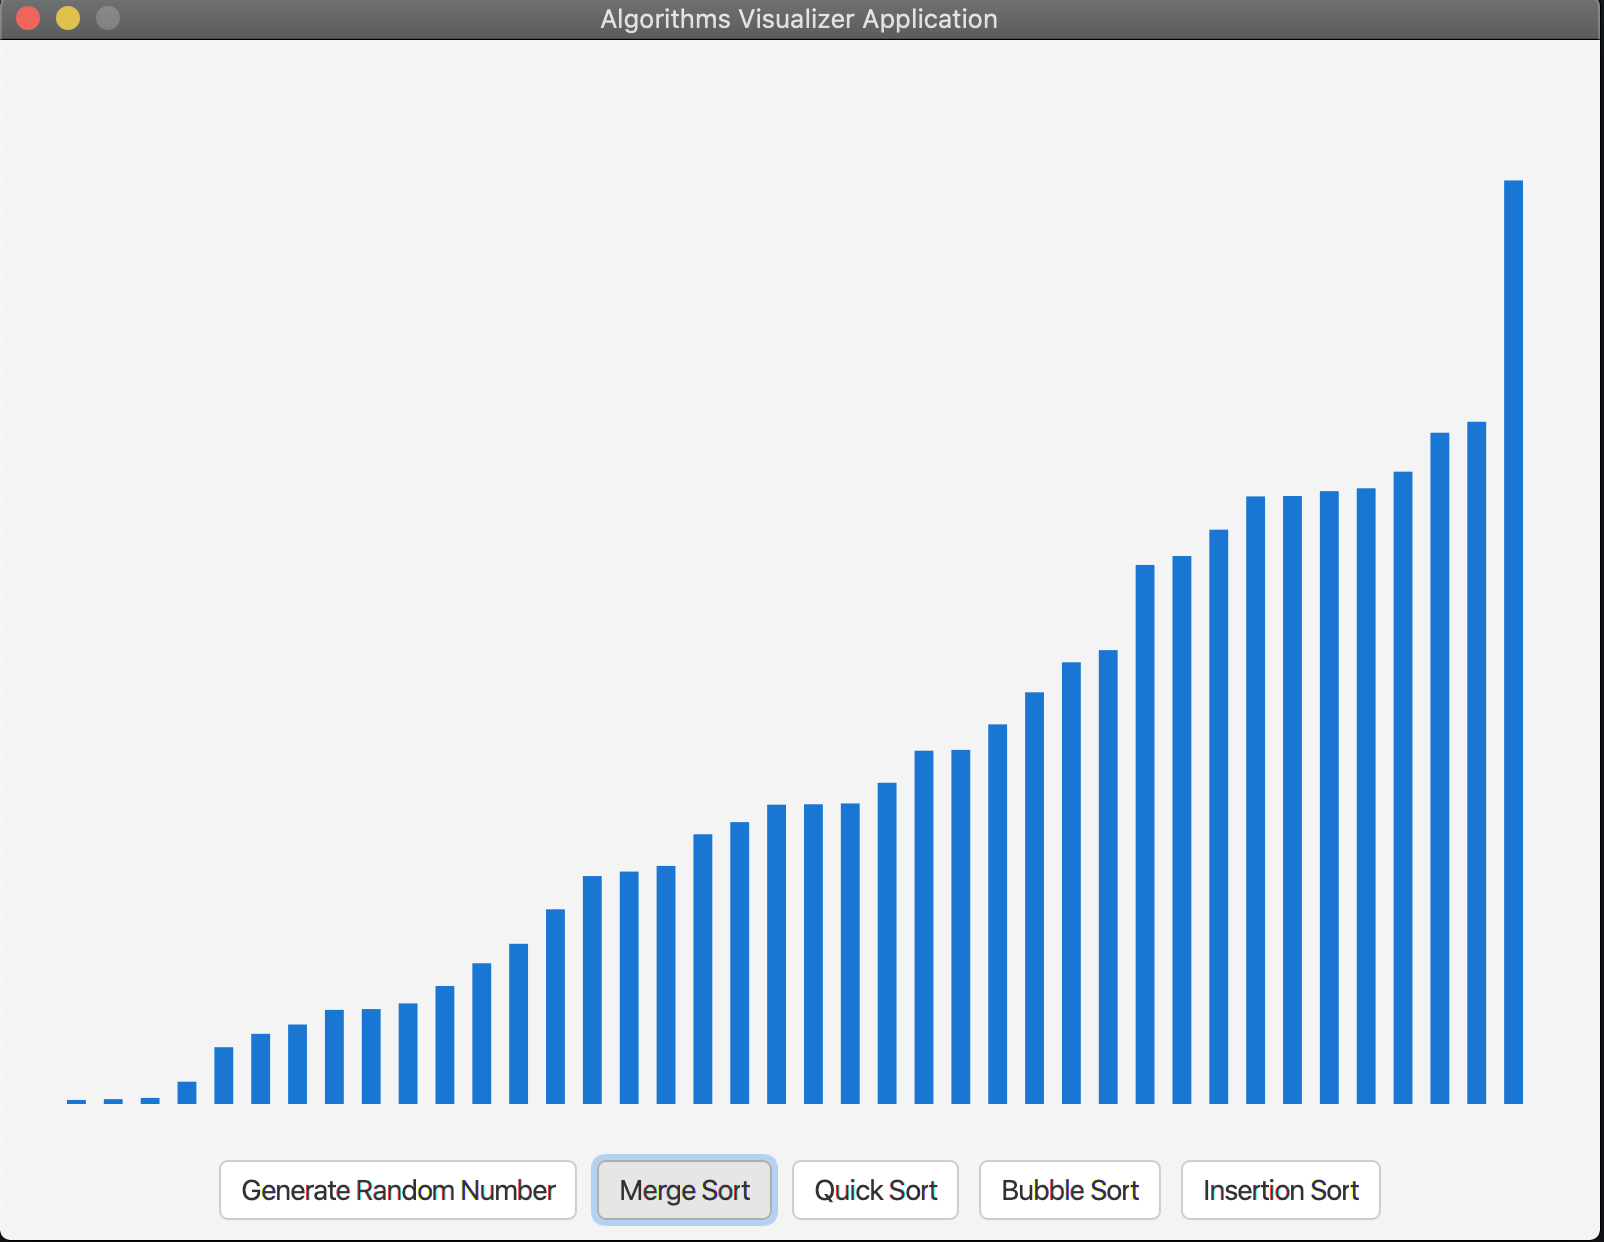
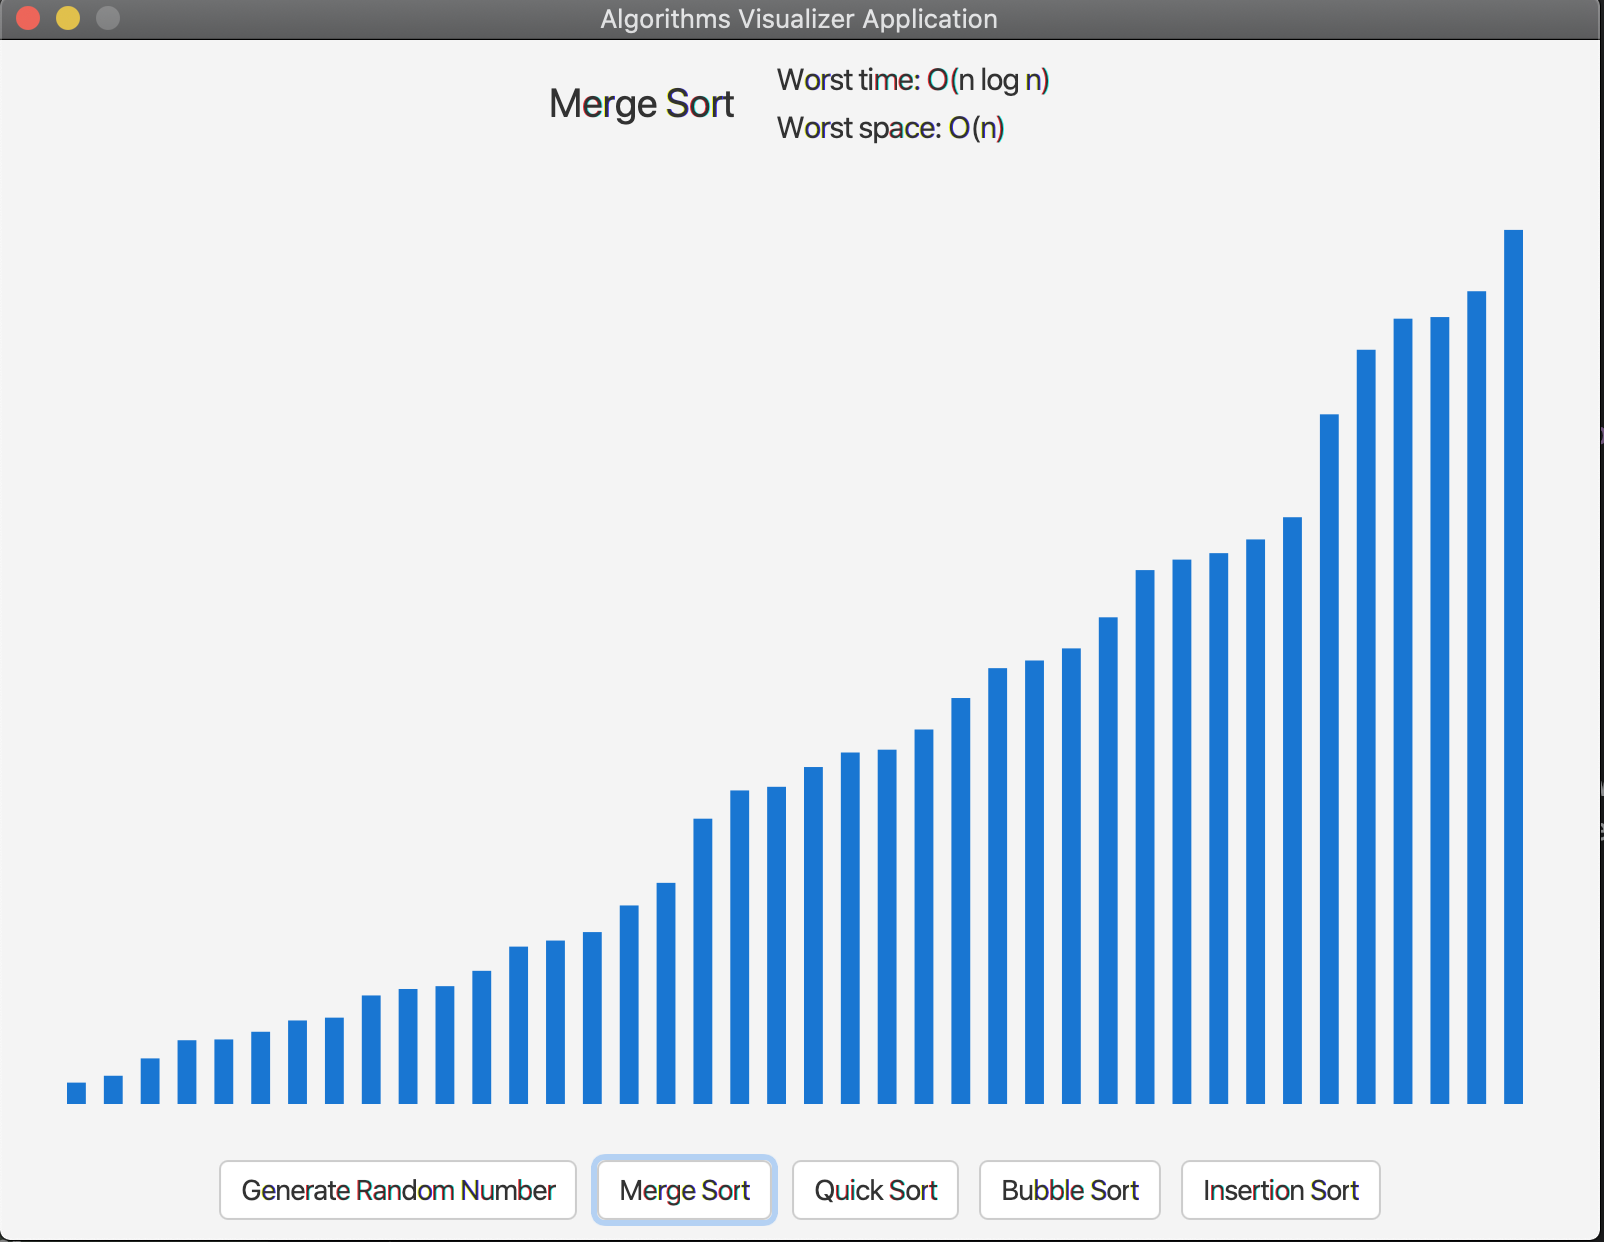
Some UI modifications

diff --git a/src/main/java/com/mghimire/algorithmsvisualizer/ui/layout/AppLayout.java b/src/main/java/com/mghimire/algorithmsvisualizer/ui/layout/AppLayout.java
@@ -2,6 +2,7 @@ package com.mghimire.algorithmsvisualizer.ui.layout;
 
 import com.mghimire.algorithmsvisualizer.sortingalgorithms.MergeSort;
 import com.mghimire.algorithmsvisualizer.ui.model.ChartModel;
+import com.mghimire.algorithmsvisualizer.ui.model.TitleProperty;
 import com.mghimire.algorithmsvisualizer.util.RandomNumberUtil;
 import javafx.collections.ObservableList;
 import javafx.event.ActionEvent;
@@ -17,12 +18,15 @@ public class AppLayout extends VBox implements SortingAlgorithmHandler {
   private static final int NUM_BARS = 40;
   private static final int BAR_GAP = 1;
 
+  private final AppTitleLayout appTitleLayout;
   private final VisualizerLayout visualizerLayout;
   private final ControlButtonLayout controlButtonLayout;
   private final ChartModel chartModel;
 
   public AppLayout() {
     chartModel = new ChartModel();
+
+    appTitleLayout = new AppTitleLayout();
 
     visualizerLayout = new VisualizerLayout(
       chartModel.getXAxis(),
@@ -38,7 +42,7 @@ public class AppLayout extends VBox implements SortingAlgorithmHandler {
   private void initLayout() {
     setSpacing(10);
     setPadding(new Insets(10));
-    getChildren().addAll(visualizerLayout, controlButtonLayout);
+    getChildren().addAll(appTitleLayout, visualizerLayout, controlButtonLayout);
 
     setVgrow(visualizerLayout, Priority.ALWAYS);
   }
@@ -51,13 +55,22 @@ public class AppLayout extends VBox implements SortingAlgorithmHandler {
       numberList.add(RandomNumberUtil.generateRandomNumberBetween(10, 1000));
     }
 
+    appTitleLayout.clearTitleProperty();
     chartModel.setBarData(numberList);
   }
 
   @Override
   public void handleMergeSort(ActionEvent event) {
+
     ObservableList<XYChart.Series<String, Number>> observableList = chartModel.getObservableList();
     if (observableList.size() > 0) {
+      var titleProperty = new TitleProperty(
+        "Merge Sort",
+        "O(n log n)",
+        "О(n) "
+      );
+      appTitleLayout.setTitleProperty(titleProperty);
+
       ObservableList<XYChart.Data<String, Number>> dataList = observableList.get(0).getData();
       int[] numberArray = new int[dataList.size()];
 
@@ -74,7 +87,6 @@ public class AppLayout extends VBox implements SortingAlgorithmHandler {
       }
 
       chartModel.setBarData(sortedDataList);
-
     }
   }
 

diff --git a/src/main/java/com/mghimire/algorithmsvisualizer/ui/layout/AppTitleLayout.java b/src/main/java/com/mghimire/algorithmsvisualizer/ui/layout/AppTitleLayout.java
@@ -1,0 +1,53 @@
+package com.mghimire.algorithmsvisualizer.ui.layout;
+
+import com.mghimire.algorithmsvisualizer.ui.model.TitleProperty;
+import javafx.geometry.Insets;
+import javafx.geometry.Pos;
+import javafx.scene.control.Label;
+import javafx.scene.layout.HBox;
+import javafx.scene.layout.VBox;
+import javafx.scene.text.Font;
+
+public class AppTitleLayout extends HBox {
+  private final Label titleLabel;
+  private final Label timeComplexityLabel;
+  private final Label spaceComplexityLabel;
+
+  private static final Font fontLarge = new Font(20);
+  private static final Font detailFonts = new Font(15);
+
+  public AppTitleLayout() {
+    setHeight(40);
+    setAlignment(Pos.CENTER);
+    setSpacing(20);
+    setPadding(new Insets(0, 0, 0, 0));
+
+    VBox complexityBox = new VBox();
+    complexityBox.setSpacing(5);
+
+    titleLabel = new Label();
+    titleLabel.setFont(fontLarge);
+
+    timeComplexityLabel = new Label();
+    timeComplexityLabel.setFont(detailFonts);
+    spaceComplexityLabel = new Label();
+    spaceComplexityLabel.setFont(detailFonts);
+    complexityBox.getChildren().addAll(timeComplexityLabel, spaceComplexityLabel);
+
+    getChildren().addAll(titleLabel, complexityBox);
+  }
+
+  public void setTitleProperty(TitleProperty titleProperty) {
+    titleLabel.setText(titleProperty.getAlgorithm());
+
+    timeComplexityLabel.setText("Worst time: " + titleProperty.getWorstTime());
+    spaceComplexityLabel.setText("Worst space: " + titleProperty.getSpace());
+  }
+
+  public void clearTitleProperty() {
+    titleLabel.setText(null);
+    timeComplexityLabel.setText(null);
+    spaceComplexityLabel.setText(null);
+  }
+
+}

diff --git a/src/main/java/com/mghimire/algorithmsvisualizer/ui/model/TitleProperty.java b/src/main/java/com/mghimire/algorithmsvisualizer/ui/model/TitleProperty.java
@@ -1,0 +1,25 @@
+package com.mghimire.algorithmsvisualizer.ui.model;
+
+public class TitleProperty {
+  private final String algorithm;
+  private final String worstTime;
+  private final String space;
+
+  public TitleProperty(String algorithm, String worstTime, String space) {
+    this.algorithm = algorithm;
+    this.worstTime = worstTime;
+    this.space = space;
+  }
+
+  public String getAlgorithm() {
+    return algorithm;
+  }
+
+  public String getWorstTime() {
+    return worstTime;
+  }
+
+  public String getSpace() {
+    return space;
+  }
+}
